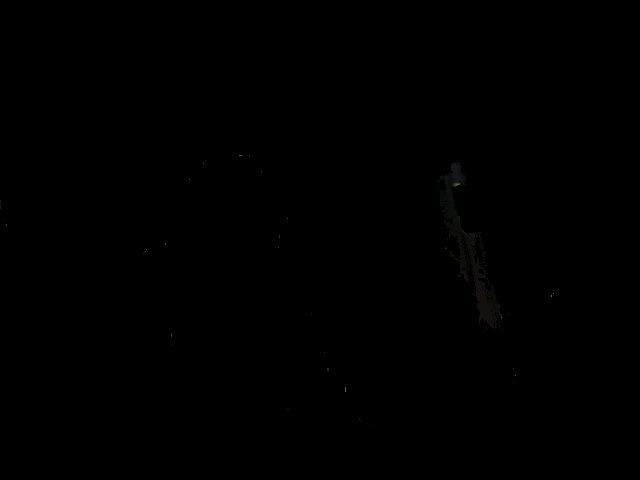
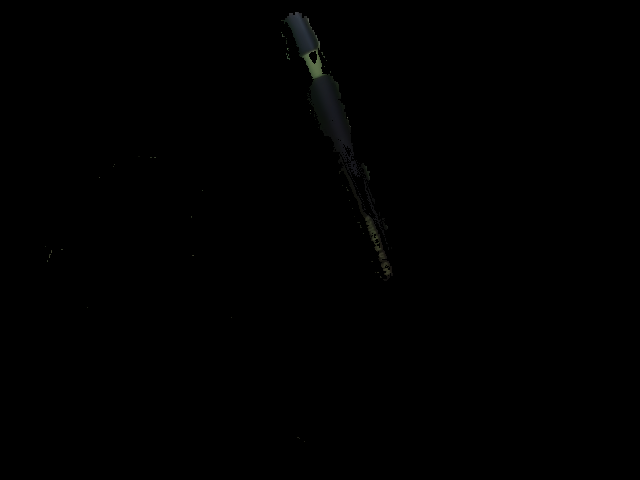
set angle first then x and z gripper pos

Changed region(s): [[0.4375, 0.0312, 0.5625, 0.375], [0.5625, 0.4375, 0.625, 0.5938], [0.6875, 0.3438, 0.7188, 0.375]]

diff --git a/arm_control.py b/arm_control.py
@@ -26,47 +26,40 @@ def grasp_pen():
     base_frame[1] = base[1]
     base_frame[2] = base[0]
     
-    trials = 0
     alpha = 0
-    beta = 0
-    gamma = 0 # third angle
-    phi = 0 # fourth angle
 
-    while trials < 1:
+    # move in z plane:
+    # ee pos:
+    R, ee_pos = ee_pose()
+    # convert to cam frame
+    gripper_pos = base_frame + ee_pos
 
-        # ee pos: (x, y, z)
-        R, ee_pos = ee_pose()
-        # convert to cam frame
-        gripper_pos = base_frame + ee_pos
-        # move in xy plane:
-        del_x = abs(pen_coord[2] - gripper_pos[0])
-        del_y = pen_coord[1] - gripper_pos[1]
-        del_z = gripper_pos[2] - pen_coord[0]
-        
-        step_num = 2
-        step_x = del_x/step_num
-        step_z = del_z/step_num
-        for i in range(step_num):
-            robot.arm.set_ee_cartesian_trajectory(step_x, 0, step_z, moving_time=0.5)
+    del_y = pen_coord[1] - gripper_pos[1]
+    del_x = abs(gripper_pos[0] - pen_coord[2])
+    alpha = -np.arctan(del_y / del_x)
 
-        # robot.arm.set_joint_positions([alpha, beta, 0, 0], moving_time=2, accel_time=2)
+    joints_pos = robot.arm.get_joint_commands()
+    robot.arm.set_joint_positions([alpha, joints_pos[1], joints_pos[2], joints_pos[3]], moving_time=2, accel_time=2)
+    # del_x = gripper_pos[0] - pen_coord[0]
+    # del_y = gripper_pos[1] - pen_coord[1]    
+    # xy_dist = np.linalg.norm(np.power(del_x, 2) + np.power(del_y, 2))
 
-        # move in z plane:
-        # ee pos:
-        R, ee_pos = ee_pose()
-        # convert to cam frame
-        gripper_pos = base_frame + ee_pos
+    # ee pos: (x, y, z)
+    R, ee_pos = ee_pose()
+    # convert to cam frame
+    gripper_pos = base_frame + ee_pos
+    # move in xy plane:
+    del_x = abs(pen_coord[2] - gripper_pos[0])
+    del_y = pen_coord[1] - gripper_pos[1]
+    del_z = gripper_pos[2] - pen_coord[0]
+    
+    step_num = 2
+    step_x = 1.2*del_x/step_num
+    step_z = 0.8*del_z/step_num
+    for i in range(step_num):
+        robot.arm.set_ee_cartesian_trajectory(step_x, 0, step_z, moving_time=1)
 
-        del_y = pen_coord[1] - gripper_pos[1]
-        del_x = abs(gripper_pos[0] - pen_coord[2])
-        alpha = -0.4*np.arctan(del_y / del_x)
-
-        joints_pos = robot.arm.get_joint_commands()
-        robot.arm.set_joint_positions([alpha, joints_pos[1], joints_pos[2], joints_pos[3]], moving_time=2, accel_time=2)
-        trials += 1
-        # del_x = gripper_pos[0] - pen_coord[0]
-        # del_y = gripper_pos[1] - pen_coord[1]    
-        # xy_dist = np.linalg.norm(np.power(del_x, 2) + np.power(del_y, 2))
+    # robot.arm.set_joint_positions([alpha, beta, 0, 0], moving_time=2, accel_time=2)
 
     robot.gripper.set_pressure(2.0)
     robot.gripper.grasp()
